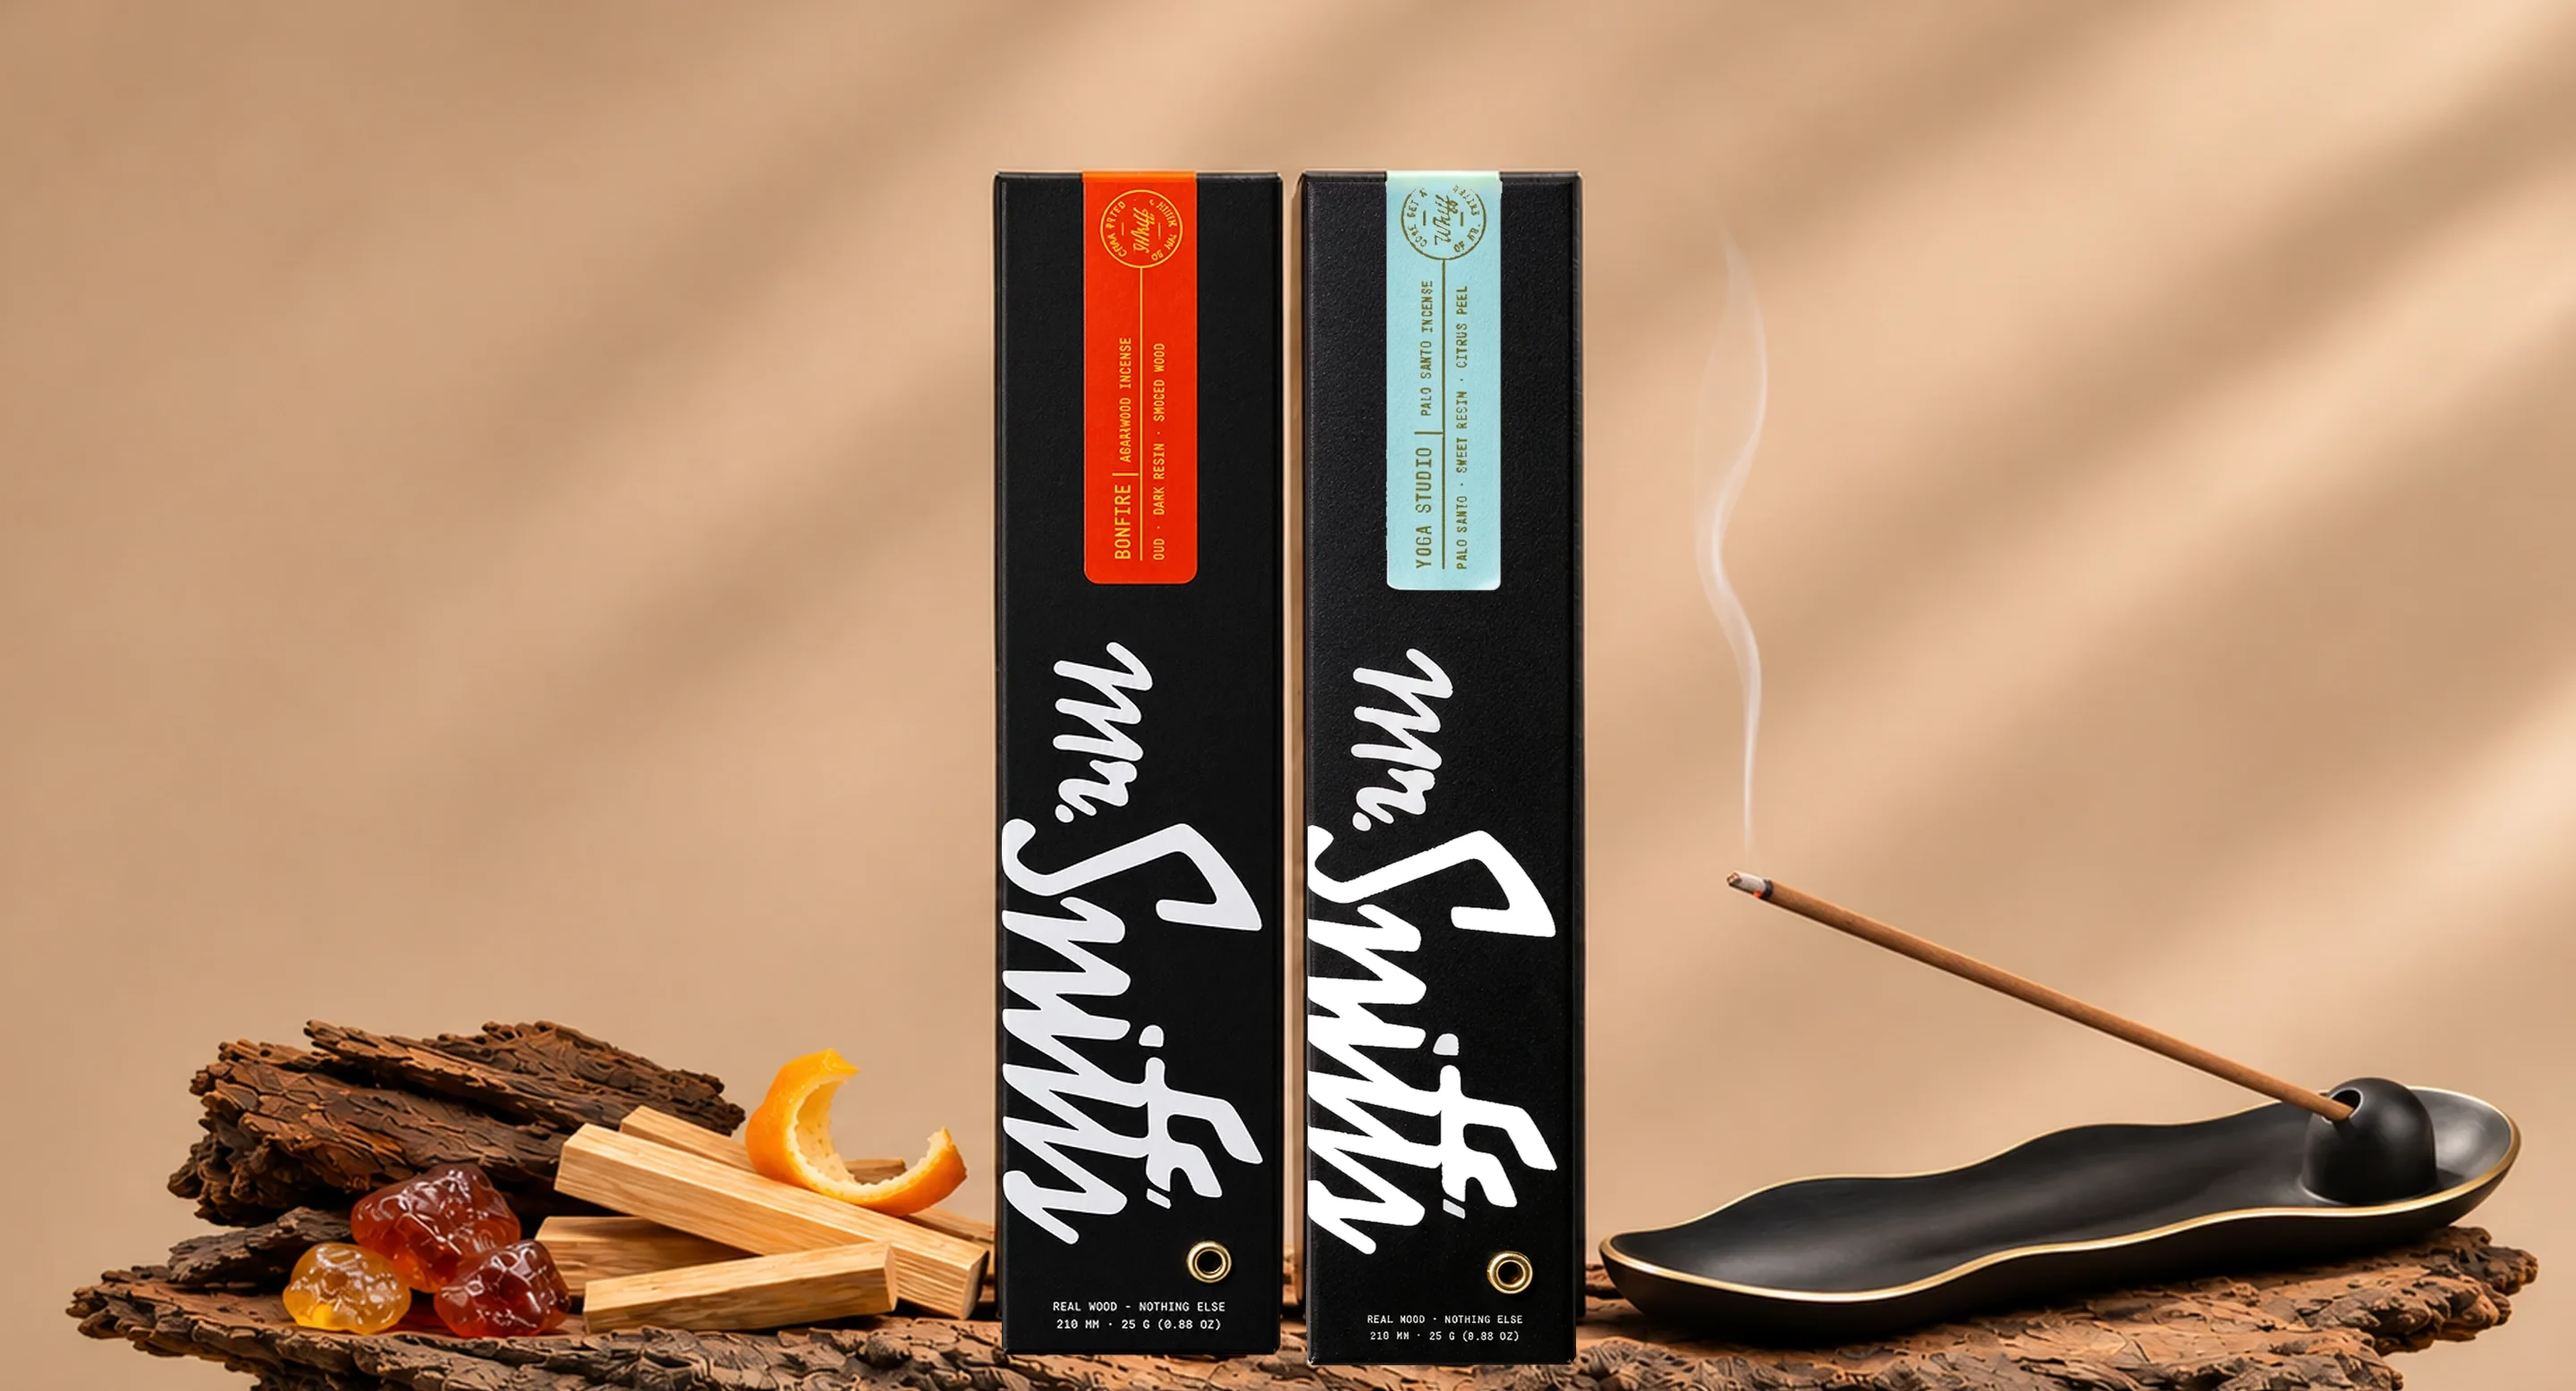
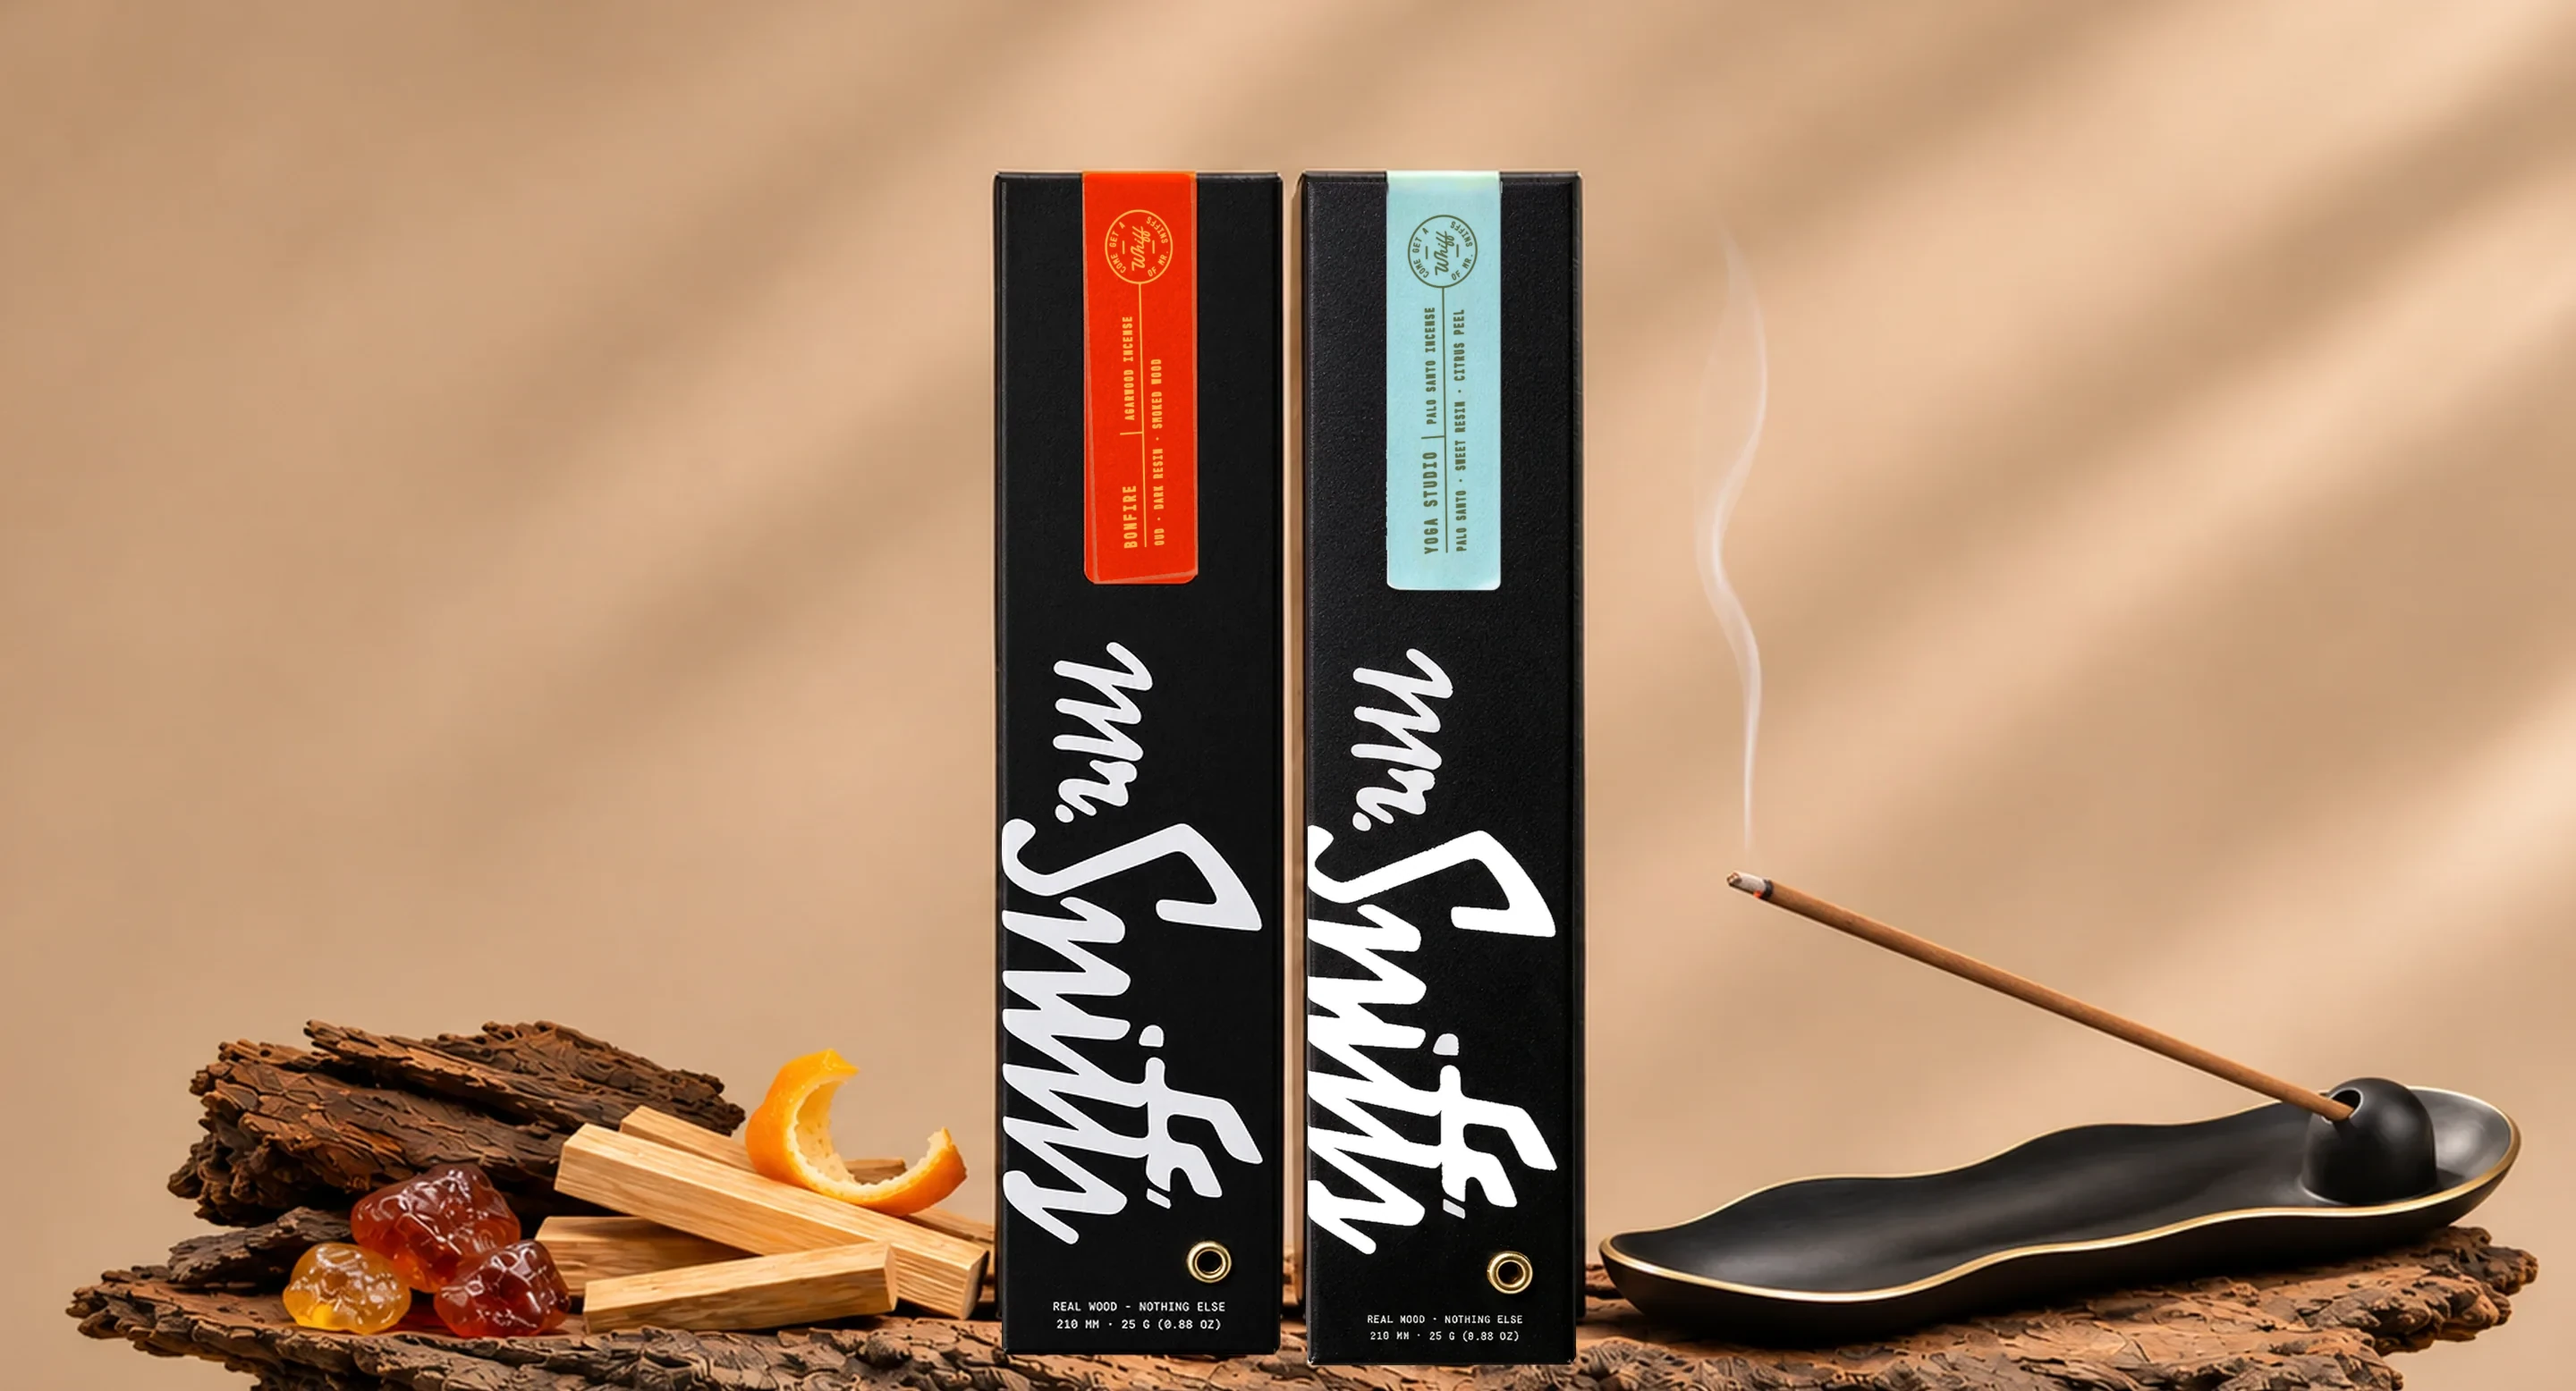
Re-print labels on clean paper (Magnific blank + exact type); taller mobile navbar
- story/hero, hero, gallery-3, shop-duo: Magnific wipes each sticker to blank paper,
  then the exact label type is printed in the photo's ink colour and lighting
- shop-duo: side line re-set to MRSNIFFS.CO
- Mobile: 48px nav bar with the 40px logo centred, more padding top and bottom

Claude-Session: https://claude.ai/code/session_018sbhs56ehqqzLbZEBXg3e9

Changed region(s): [[0.4062, 0.1234, 0.4688, 0.4319], [0.5312, 0.1234, 0.5938, 0.401]]

diff --git a/css/main.css b/css/main.css
@@ -1483,7 +1483,10 @@ html.search-open { overflow: hidden; }
   }
   .why__proof { grid-template-columns: 1fr; }
   .search__products { grid-template-columns: 1fr; }
-  .site-header--solid { padding: 12px var(--gutter); }
+  .site-header--solid,
+  .site-header--solid.is-scrolled { padding: 14px var(--gutter); }   /* 48px bar + 14px either side around the 40px logo */
+  .site-header { padding-top: 14px; padding-bottom: 14px; }
+  .site-header.is-scrolled { padding-top: 10px; padding-bottom: 10px; }
   .site-header--solid .nav__logo img,
   .site-header--solid.is-scrolled .nav__logo img { width: 95px; height: 40px; }
   .site-header--solid .nav__links { background: var(--c-white); }
@@ -1510,7 +1513,8 @@ html.search-open { overflow: hidden; }
   .nav__link { font-family: var(--f-display); font-weight: 700; font-size: 44px; letter-spacing: var(--tr-display); }
   .nav__link::after { bottom: 4px; height: 2px; }
   .nav__arrow { width: 24px; height: 24px; }
-  .nav__logo { position: absolute; left: 50%; translate: -50% 0; z-index: calc(var(--z-menu) + 1); }
+  .nav { min-height: 48px; }
+  .nav__logo { position: absolute; left: 50%; top: 50%; translate: -50% -50%; z-index: calc(var(--z-menu) + 1); }
   .nav__logo img { width: 95px; height: 40px; }
   .nav__actions { gap: 22px; position: relative; z-index: calc(var(--z-menu) + 1); }
   .nav__burger { display: block; }
